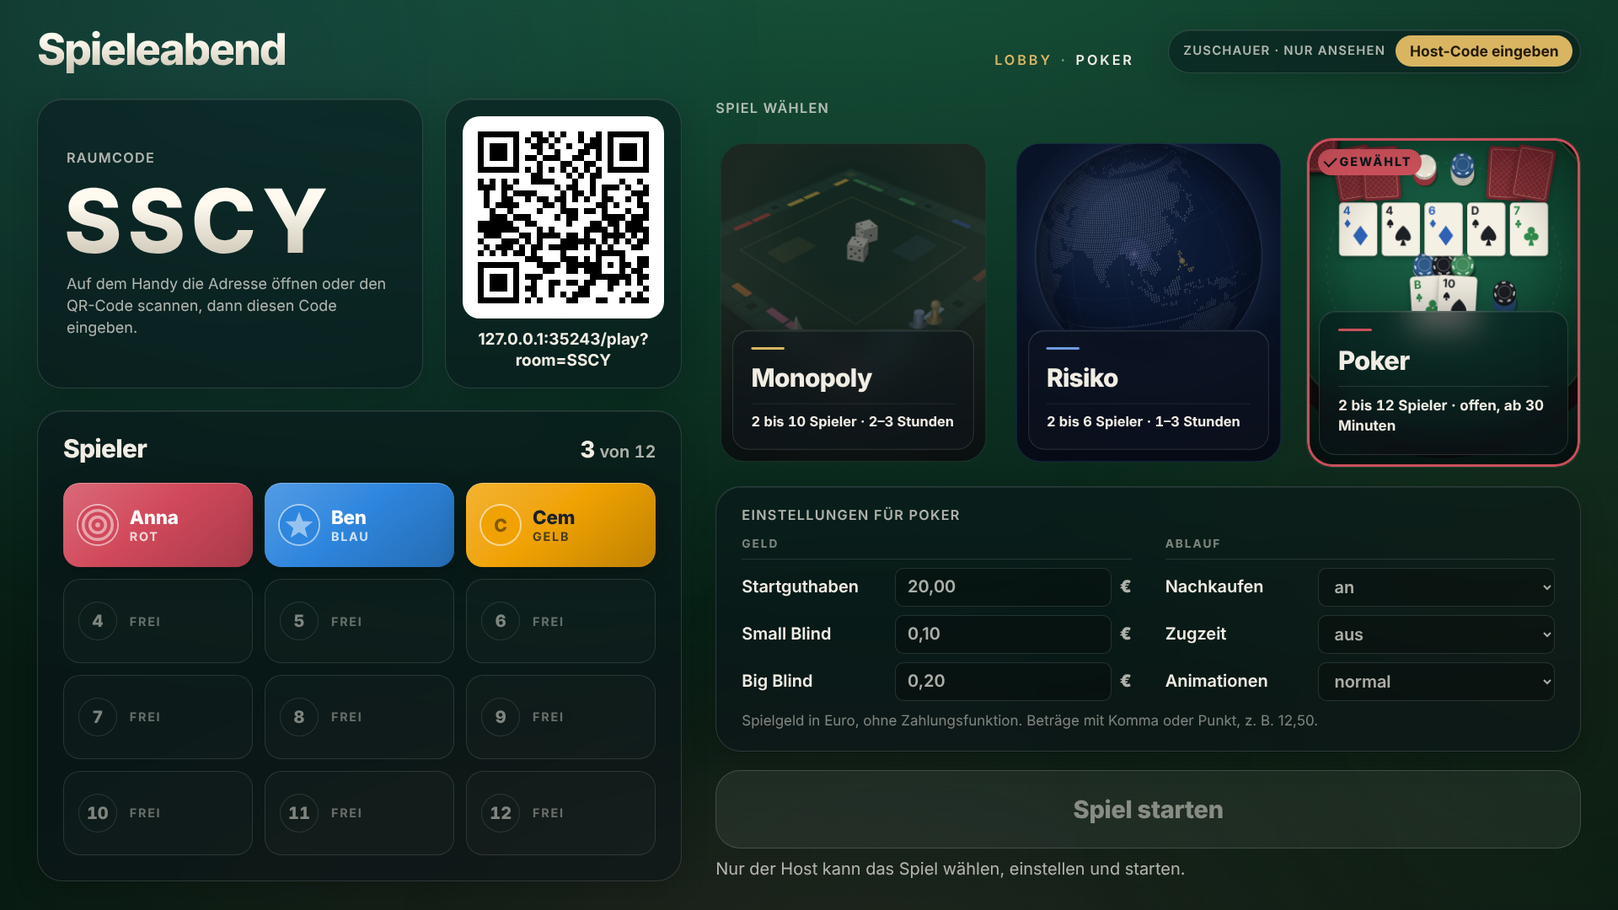
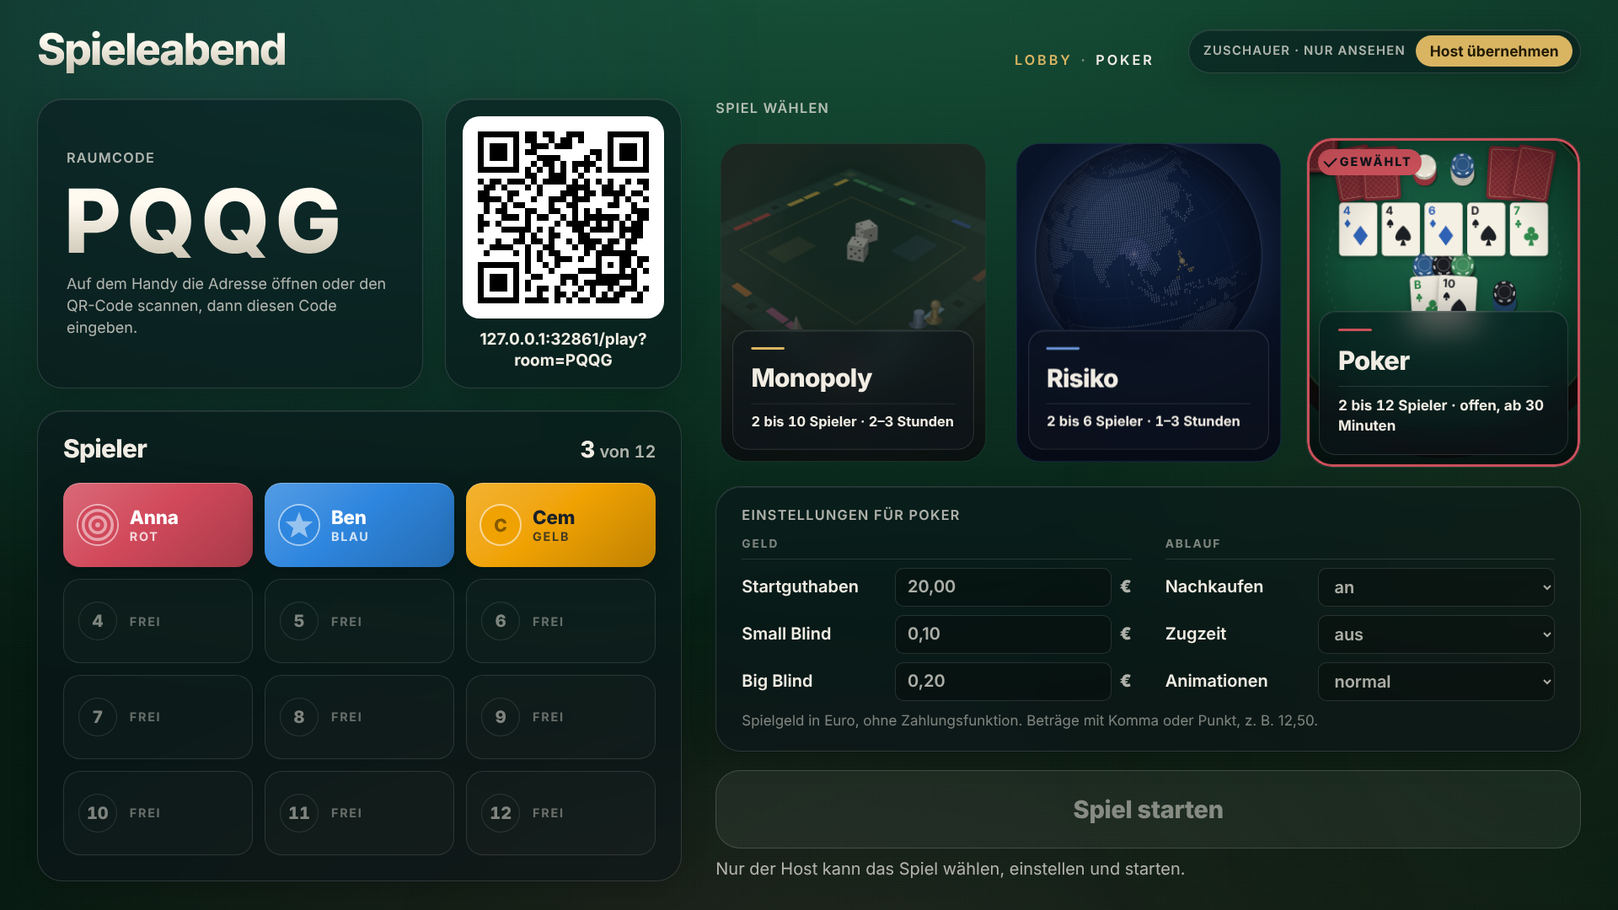
Doku und Bildschirmfotos: Host übernehmen
Claude-Session: https://claude.ai/code/session_01TwzLMyFqqp1k3P6XzyQuCh

diff --git a/docs/spielcenter-plan.md b/docs/spielcenter-plan.md
@@ -57,15 +57,15 @@ Ziel: Aus dem Monopoly-Abend wird ein Spielcenter mit mehreren Spielen.
   - Risiko: bestehendes Abschlussbild mit Statistik, dazu Gebiete und Armeen; bei vorzeitigem Ende „Spiel vom Host beendet“ ohne Sieger.
   - Monopoly: Vermögen als Rangliste: Bargeld plus Kaufpreis der Grundstücke (mit Hypothek abzüglich Hypothekenwert) plus Baukosten der Häuser (Hotel = 5 Häuser). Ein laufendes Minispiel bricht ab, offene Einsätze gehen zurück.
   - Danach: Handys zeigen „Das Spiel wurde beendet“ mit Endstand; der Host hat „Zurück zur Lobby“ (gleicher Raum, gleiche Spieler, neues Spiel wählbar) und „Raum schließen“ (mit Bestätigung; der Raum wird gelöscht, auch aus der Datenbank, alle Geräte bekommen Bescheid).
-- **Host-Token und Host-Code** (Branch `feature/host-token`): Nur der Host eines Raums darf Host-Aktionen auslösen. Bisher galt jedes Gerät mit geöffneter Host-Ansicht als Host.
-  - Token: Beim Anlegen eines Raums (`POST /api/rooms` von der Startseite, `board:create` aus der Host-Ansicht) erzeugt der Server ein Host-Token (`crypto.randomBytes(24)`, Base64url) und einen sechsstelligen Host-Code. Beide liegen im Raumzustand und damit in Postgres. Das Token geht nur in der Antwort an das anlegende Gerät; es steht nie in Snapshots, Logs, Fehlermeldungen, der QR-Adresse oder der Raumabfrage (`GET /api/rooms/:code`). Vergleich zeitkonstant über SHA-256 und `crypto.timingSafeEqual`.
+- **Host-Token** (Branch `feature/host-token`): Nur der Host eines Raums darf Host-Aktionen auslösen. Bisher galt jedes Gerät mit geöffneter Host-Ansicht als Host.
+  - Token: Beim Anlegen eines Raums (`POST /api/rooms` von der Startseite, `board:create` aus der Host-Ansicht) erzeugt der Server ein Host-Token (`crypto.randomBytes(24)`, Base64url). Es liegt im Raumzustand und damit in Postgres und geht nur in der Antwort an das anlegende (bzw. übernehmende) Gerät; es steht nie in Snapshots, Logs, Fehlermeldungen, der QR-Adresse oder der Raumabfrage (`GET /api/rooms/:code`). Vergleich zeitkonstant über SHA-256 und `crypto.timingSafeEqual`.
   - Client: Die Host-Ansicht speichert das Token in `localStorage` unter `spieleabend-host:<RAUMCODE>` und schickt es bei jeder Host-Aktion mit. Die Startseite legt es dort ab, bevor sie zu `/board?room=CODE` weiterleitet (gleiche Origin, das Token steht nie in der Adresse, also auch kein Referrer-Leck; zusätzlich `<meta name="referrer" content="no-referrer">` auf der Host-Ansicht). Die Weckseite (`wake/`) leitet für ein neues Spiel nach `/board` ohne Raum weiter; dort legt `board:create` den Raum an und das Token kommt direkt in der Antwort an. `wake/` ist deshalb unverändert.
-  - Geschützte Aktionen (Server, `hostRoom()` in `server/rooms.js`): `board:settings` (Einstellungen), `board:game` (Spielwechsel), `board:start` (Spiel starten), `board:end` (Spiel beenden), `board:lobby` (Zurück zur Lobby), `board:close` (Raum schließen), `board:foto` (Foto ausblenden und zeigen), im Testmodus `debug:dice` (Würfel vorgeben). Ohne gültiges Token: deutsche Ablehnung („Nur der Host kann … Dieses Gerät sieht nur zu – mit dem Host-Code lässt sich die Host-Rolle übernehmen.“), keine Zustandsänderung. Handys werden wie bisher schon an der Rolle abgelehnt, auch mit einem Token im richtigen Format.
-  - Zuschauer: Wer `/board?room=CODE` ohne gültiges Token öffnet, sieht Lobby bzw. Spiel, aber ohne Host-Knöpfe: Spielkarten, Einstellungen und „Spiel starten“ sind deaktiviert, „Foto ausblenden“, „Spiel beenden“, „Zurück zur Lobby“ und „Raum schließen“ fehlen. Im Kopf der Lobby steht „Zuschauer · nur ansehen“ mit „Host-Code eingeben“, im Spielkopf „Host-Code eingeben“.
-  - Host-Code als Notausgang: Die Lobby zeigt dem Host oben rechts „Host-Code 123 456“, im Spiel öffnet „Host-Code“ neben „Spiel beenden“ das Host-Menü mit dem Code. Auf einem neuen Gerät gibt man ihn in der Zuschauer-Ansicht ein (`host:claim`); der Server gibt ein neues Token **und einen neuen Host-Code** aus, das alte Token wird ungültig und das alte Gerät wird sofort Zuschauer (`host:revoked`, Hinweis). Höchstens 5 Fehlversuche pro Minute und IP und 10 pro Raum und Stunde, danach Sperre mit Meldung (die Zähler liegen nur im Arbeitsspeicher). Der Code wird nie an Handys gesendet.
+  - Geschützte Aktionen (Server, `hostRoom()` in `server/rooms.js`): `board:settings` (Einstellungen), `board:game` (Spielwechsel), `board:start` (Spiel starten), `board:end` (Spiel beenden), `board:lobby` (Zurück zur Lobby), `board:close` (Raum schließen), `board:foto` (Foto ausblenden und zeigen), im Testmodus `debug:dice` (Würfel vorgeben). Ohne gültiges Token: deutsche Ablehnung („Nur der Host kann … Dieses Gerät sieht nur zu.“), keine Zustandsänderung. Handys werden wie bisher schon an der Rolle abgelehnt, auch mit einem Token im richtigen Format.
+  - Zuschauer: Wer `/board?room=CODE` ohne gültiges Token öffnet, sieht Lobby bzw. Spiel, aber ohne Host-Knöpfe: Spielkarten, Einstellungen und „Spiel starten“ sind deaktiviert, „Foto ausblenden“, „Spiel beenden“, „Zurück zur Lobby“ und „Raum schließen“ fehlen. Im Kopf der Lobby steht „Zuschauer · nur ansehen“ mit „Host übernehmen“, im Spielkopf „Host übernehmen“. Der Host sieht in der Lobby „Dieses Gerät ist Host“.
+  - Host übernehmen (`host:takeover`): Nur eine Host-Ansicht in der Zuschauer-Rolle darf es versuchen (Handys und der Host selbst werden abgelehnt). Der Server erlaubt die Übernahme nur, wenn kein Host-Gerät mit gültigem Token per Socket verbunden ist; nach einem Verbindungsabbruch gilt der Host noch 15 Sekunden als verbunden, damit ein kurzes Neuladen ihn nicht verdrängt (die Toleranz gilt auch nach dem Anlegen und nach einem Neustart des Servers). Ist ein Host verbunden: „Der Host ist verbunden.“ Sonst gibt der Server ein neues Token aus, das alte wird ungültig; ein noch offenes altes Gerät wird sofort Zuschauer (`host:revoked`), beim Neuladen mit dem alten Token heißt es „Ein anderes Gerät ist jetzt Host“. Höchstens 5 Versuche pro Minute und IP (jeder Versuch zählt; Zähler nur im Arbeitsspeicher). Der frühere sechsstellige Host-Code ist entfallen.
   - Verbindungsverlust und Neustart: Die Host-Ansicht meldet sich mit dem gespeicherten Token neu an (`board:watch`); Token und Code überstehen einen Neustart des Servers.
-  - **Übergangsregel für alte gespeicherte Räume ohne Token:** Beim Laden bekommt ein solcher Raum ein neues Token und einen neuen Host-Code und ist „übernehmbar“ (`hostClaimable`, wird mitgespeichert). Die erste Host-Ansicht, die ihn danach öffnet, wird Host und bekommt das Token in der Antwort; jede weitere Ansicht ist Zuschauer. So stehen laufende Spiele nach dem Deploy nicht ohne Host da. Wer zuerst kommt, gewinnt – das ist für die Zeit direkt nach dem Deploy hingenommen.
-  - Bildschirmfotos: `host-lobby-host-code-1920x1080`, `zuschauer-lobby-1920x1080`, `host-code-eingabe-1920x1080` in `docs/screenshots/`. Die älteren Lobby-Fotos (`lobby-*`) zeigen den Host-Code oben rechts noch nicht.
+  - **Übergangsregel für alte gespeicherte Räume ohne Token:** Beim Laden bekommt ein solcher Raum ein neues Token und ist „übernehmbar“ (`hostClaimable`, wird mitgespeichert). Die erste Host-Ansicht, die ihn danach öffnet, wird Host und bekommt das Token in der Antwort; jede weitere Ansicht ist Zuschauer. So stehen laufende Spiele nach dem Deploy nicht ohne Host da. Wer zuerst kommt, gewinnt – das ist für die Zeit direkt nach dem Deploy hingenommen.
+  - Bildschirmfotos: `host-lobby-1920x1080`, `zuschauer-lobby-1920x1080`, `host-uebernehmen-abgelehnt-1920x1080` in `docs/screenshots/`. Die älteren Lobby-Fotos (`lobby-*`) zeigen den Hinweis „Dieses Gerät ist Host“ oben rechts noch nicht.
 - **Startseite** (`/`, `public/start/`, Branch `feature/startseite`): „Neues Spiel starten“ legt über `POST /api/rooms` einen Raum an, legt das Host-Token in `localStorage` ab und öffnet die Host-Lobby; „Spiel beitreten“ prüft den Code (`GET /api/rooms/:code`) und führt zu `/play`. Keine Anmeldung. Dauert eine Anfrage länger als 3 s, erscheint „Der Server startet, das dauert bis zu einer Minute.“
   - Eigenständig gestaltet (keine Stile aus `public/shared/`): Kopf mit Wortmarke „Spieleabend“ und den zwei Hauptaktionen, daneben „Spiel beitreten“ als Glas-Karte mit Raumcode in vier Feldern (automatisch weiter, Einfügen, Rücktaste springt zurück, Großbuchstaben, Fehler direkt am Feld), darunter drei Spielflächen und „So geht’s“ in drei Schritten. Am Desktop eine Seite mit klaren Abschnitten, die scrollt; Kopf und Spielflächen-Anfang passen in den ersten Bildschirm.
   - Animierte Hintergründe nur mit Canvas (`public/shared/hintergrund.js`, gemeinsam mit der Host-Lobby): Risiko als drehende Weltkugel aus Landpunkten (orthografisch, Regionen leuchten in Spielerfarben), Monopoly als Spielfeld in Perspektive mit laufenden Marken und rollenden Würfeln, Poker als Tisch von oben mit Karten und Chips. Die Punktdatei `public/start/globe-points.json` erzeugt `npm run build:globe` (`scripts/build-globe.js`) aus Natural Earth; sie ist deterministisch und unter 150 KB.
@@ -105,7 +105,7 @@ Ziel: Aus dem Monopoly-Abend wird ein Spielcenter mit mehreren Spielen.
   - Vanilla-JS-Clients ohne Build-Schritt
   - Zustand im Arbeitsspeicher; mit `DATABASE_URL` zusätzlich in Postgres (Neon), siehe Betrieb
 - **Deployment:** `render.yaml` als Web Service im Free-Plan; Build mit `npm install --omit=dev`, Start mit `npm start`, Healthcheck `/healthz`.
-- **Tests:** `npm test` führt nur die Unit-Tests aus (197: Host-Token und Host-Code (`test/host-token.test.js`: jede Host-Aktion mit gültigem, falschem, fehlendem und ersetztem Token, Zuschauer, Host-Code richtig/falsch/Sperre pro IP und pro Raum, Handys, Neustart mit Ersatz-Speicher, alter Raum ohne Token, Token nie in Snapshots, Logs, an Handys oder in Raumabfrage/QR-Adresse, auch kein Teilstring), Avatar-Set und Fotoprüfung (Format, Maße, Größe, Rate-Limit, Speichern und Löschen, alter Raum mit Emoji-Figur), Regeln von Monopoly, Risiko, Poker und Minispielen, Spiel-Schnittstelle, Spielauswahl, Neustart-Tests mit gespeicherten Räumen in Version 1 und 2, Prüfung der erzeugten Weltkarte, Animations-Ereignisse, Risiko-Anzeigedaten wie Vorauswahl, Phasentexte und Statistik samt altem Spielstand ohne Statistik, Animationsdauern, Raumlimit, Rate-Limit und Aufräumen leerer Räume, Startseite per HTTP, CORS-Freigabe von `/healthz` für die Weckseite, Wächter für die Testskripte, Punktdatei der Weltkugel). Poker hat 31 eigene Tests (`test/poker.test.js`, `test/poker-modul.test.js`): Handbewertung aller Kategorien mit Kickern und Gleichständen, Side-Pots mit drei und mehr Spielern und mehreren All-ins, Split mit ungeradem Cent, Mindest-Raise und zu kleines All-in, Heads-up, Blinds-Rotation, Aktionen außerhalb des Zuges, Einstellungen, Ablehnung des 13. Spielers, Austeilen mit 12 Spielern, versteckte Karten für jede Rolle auch nach Neustart aus dem Speicher, Zugzeit, Nachkaufen, Spielende und eine Zufallspartie mit festem Seed (über 100 Runden je mit 3, 6 und 12 Spielern), in der Guthaben plus Pot bis auf Nachkäufe konstant bleibt. Dazu `test/poker-layout.test.js` (Tischgeometrie ohne Browser: keine Überlappung mit Sperrzonen und untereinander für 2 bis 12 Spieler, Chip-Flugbahnen) und `test/spiel-beenden.test.js` (nur der Host beendet, Endphase, Neustart, Zurück zur Lobby, Raum schließen inklusive Löschen aus dem Speicher, Poker-Endstand mit Summe null, Monopoly-Vermögen, Risiko-Gebiete). Lokal kommen dazu `npm run test:browser` (Playwright-Durchläufe: Monopoly mit 1 Host-Ansicht und 3 Handys, Lobby, alte Einzelversion, Risiko mit 2 Handys inkl. Vorauswahl auf dem Fernseher, Poker mit 3 Handys (eine Runde, Karten nur am eigenen Handy, Gemeinschaftskarten auf dem Fernseher), Überlappungsprüfung des Poker-Tisches (`poker-layout.e2e`, `poker-layout-viele.e2e`, gemeinsamer Ablauf in `test/poker-layout-messung.js`), Spiel beenden mit Bestätigung, Endstand auf den Handys, Lobby und Raum schließen, Raster der Lobby (`lobby-layout.e2e`: 0 bis 12 Spieler, drei Auflösungen, Handy-Beitritt), Avatare und Fotos (`avatar.e2e`), Host-Token (`host-token.e2e`: Raum über die Startseite, Token nur in `localStorage`, zweites Fenster nur Zuschauer, Übernahme per Host-Code, altes Fenster wird Zuschauer), Startseite mit Raum anlegen und Beitritt per Code, Weckseite; braucht `CHROMIUM_PATH`; zuletzt 22 von 22 grün mit `/opt/pw-browsers/chromium`) und `npm run test:db` (2 Datenbank-Tests, braucht `DATABASE_URL`). Fehlt die Umgebung, werden diese Tests mit Grund übersprungen. Zeitlimit 60 s pro Testdatei.
+- **Tests:** `npm test` führt nur die Unit-Tests aus (198: Host-Token (`test/host-token.test.js`: jede Host-Aktion mit gültigem, falschem, fehlendem und ersetztem Token, Zuschauer, „Host übernehmen“ ohne und mit verbundenem Host, Toleranzfenster, altes Token danach ungültig, Rate-Limit, Handys, Neustart mit Ersatz-Speicher, alter Raum ohne Token, Token nie in Snapshots, Logs, an Handys oder in Raumabfrage/QR-Adresse, auch kein Teilstring), Avatar-Set und Fotoprüfung (Format, Maße, Größe, Rate-Limit, Speichern und Löschen, alter Raum mit Emoji-Figur), Regeln von Monopoly, Risiko, Poker und Minispielen, Spiel-Schnittstelle, Spielauswahl, Neustart-Tests mit gespeicherten Räumen in Version 1 und 2, Prüfung der erzeugten Weltkarte, Animations-Ereignisse, Risiko-Anzeigedaten wie Vorauswahl, Phasentexte und Statistik samt altem Spielstand ohne Statistik, Animationsdauern, Raumlimit, Rate-Limit und Aufräumen leerer Räume, Startseite per HTTP, CORS-Freigabe von `/healthz` für die Weckseite, Wächter für die Testskripte, Punktdatei der Weltkugel). Poker hat 31 eigene Tests (`test/poker.test.js`, `test/poker-modul.test.js`): Handbewertung aller Kategorien mit Kickern und Gleichständen, Side-Pots mit drei und mehr Spielern und mehreren All-ins, Split mit ungeradem Cent, Mindest-Raise und zu kleines All-in, Heads-up, Blinds-Rotation, Aktionen außerhalb des Zuges, Einstellungen, Ablehnung des 13. Spielers, Austeilen mit 12 Spielern, versteckte Karten für jede Rolle auch nach Neustart aus dem Speicher, Zugzeit, Nachkaufen, Spielende und eine Zufallspartie mit festem Seed (über 100 Runden je mit 3, 6 und 12 Spielern), in der Guthaben plus Pot bis auf Nachkäufe konstant bleibt. Dazu `test/poker-layout.test.js` (Tischgeometrie ohne Browser: keine Überlappung mit Sperrzonen und untereinander für 2 bis 12 Spieler, Chip-Flugbahnen) und `test/spiel-beenden.test.js` (nur der Host beendet, Endphase, Neustart, Zurück zur Lobby, Raum schließen inklusive Löschen aus dem Speicher, Poker-Endstand mit Summe null, Monopoly-Vermögen, Risiko-Gebiete). Lokal kommen dazu `npm run test:browser` (Playwright-Durchläufe: Monopoly mit 1 Host-Ansicht und 3 Handys, Lobby, alte Einzelversion, Risiko mit 2 Handys inkl. Vorauswahl auf dem Fernseher, Poker mit 3 Handys (eine Runde, Karten nur am eigenen Handy, Gemeinschaftskarten auf dem Fernseher), Überlappungsprüfung des Poker-Tisches (`poker-layout.e2e`, `poker-layout-viele.e2e`, gemeinsamer Ablauf in `test/poker-layout-messung.js`), Spiel beenden mit Bestätigung, Endstand auf den Handys, Lobby und Raum schließen, Raster der Lobby (`lobby-layout.e2e`: 0 bis 12 Spieler, drei Auflösungen, Handy-Beitritt), Avatare und Fotos (`avatar.e2e`), Host-Token (`host-token.e2e`: Raum über die Startseite, Token nur in `localStorage`, zweites Fenster nur Zuschauer, „Host übernehmen“ abgelehnt bei verbundenem Host und beim Neuladen, nach der Toleranz übernommen, altes Fenster wird Zuschauer), Startseite mit Raum anlegen und Beitritt per Code, Weckseite; braucht `CHROMIUM_PATH`; zuletzt 22 von 22 grün mit `/opt/pw-browsers/chromium`) und `npm run test:db` (2 Datenbank-Tests, braucht `DATABASE_URL`). Fehlt die Umgebung, werden diese Tests mit Grund übersprungen. Zeitlimit 60 s pro Testdatei.
 - **Aufräumarbeiten:** `package-lock.json` liegt im Repo. Die alte Pferderennen-Einzelversion liegt in `legacy/`.
 
 ## Entscheidungen
@@ -119,10 +119,10 @@ Ziel: Aus dem Monopoly-Abend wird ein Spielcenter mit mehreren Spielen.
 7. **Poker: Texas Hold'em als Cash-Game**, 2 bis 12 Spieler, Geld in ganzen Cent, Einstellungen und Regeln wie oben unter Poker. Keine Turniere, keine anderen Varianten.
 8. **Poker: Showdown.** Wer gewinnen kann, zeigt automatisch; wer nicht gewinnen kann, darf verdeckt wegwerfen. Bei einem All-in werden alle Hände gezeigt. Die Dead-Button-Regel gibt es nicht: Der Button rückt immer zum nächsten Spieler mit Guthaben.
 9. **Räume bis 12 Spieler.** Monopoly bleibt bei 10, Risiko bei 6.
-10. **Spiel beenden darf nur der Host.** Host ist das Gerät, das den Raum angelegt hat (Host-Token, ohne Anmeldung); auf einem anderen Gerät übernimmt man die Rolle mit dem sechsstelligen Host-Code. Ein vorzeitig beendetes Spiel hat keinen Sieger; laufende Poker-Runden und Minispiele werden abgebrochen, Einsätze gehen zurück.
+10. **Spiel beenden darf nur der Host.** Host ist das Gerät, das den Raum angelegt hat (Host-Token, ohne Anmeldung); ein anderes Gerät kann die Rolle mit „Host übernehmen“ bekommen, wenn kein Host verbunden ist.
 11. **Avatare statt Emoji-Figuren.** Eigenes geometrisches Set mit 24 Motiven plus Monogramm, getrennt von der Farbe wählbar; das alte Feld `figure` bleibt nur zum Lesen alter Spielstände.
 12. **Eigene Fotos nur klein und nur im Raum.** 128 × 128, höchstens 20 KB am Handy bzw. 24 KB am Server, nur WebP oder JPEG; gelöscht mit dem Raum; der Host kann jedes Foto ausblenden.
-13. **Host-Token statt „wer die Host-Ansicht öffnet“.** Alle Host-Aktionen brauchen das Token aus `localStorage`; ohne Token ist die Host-Ansicht eine Zuschauer-Ansicht. Die Übernahme per Host-Code erneuert Token und Code. Alte Räume ohne Token übernimmt einmalig die erste Host-Ansicht nach dem Deploy.
+13. **Host-Token statt „wer die Host-Ansicht öffnet“.** Alle Host-Aktionen brauchen das Token aus `localStorage`; ohne Token ist die Host-Ansicht eine Zuschauer-Ansicht. „Host übernehmen“ geht nur, wenn kein Host verbunden ist (15 s Toleranz), und erneuert das Token. Ein Host-Code wurde ausprobiert und wieder entfernt. Alte Räume ohne Token übernimmt einmalig die erste Host-Ansicht nach dem Deploy.
 
 ## Offene Punkte
 
@@ -143,7 +143,7 @@ Ziel: Aus dem Monopoly-Abend wird ein Spielcenter mit mehreren Spielen.
   - Offen: Ein unterbrochenes Minispiel startet nach einem Neustart neu.
 - Weckseite (`wake/`) für den Link an Freunde, siehe unten.
 - Nur eine Server-Instanz möglich, weil Socket.IO keinen gemeinsamen Adapter (z. B. Redis) nutzt.
-- Keine Anmeldung: Wer den Raumcode kennt, kann die Host-Ansicht als Zuschauer öffnen, aber nichts steuern (Host-Token, siehe oben). Getrennte Plätze von Spielern lassen sich weiterhin übernehmen. Wer den Host-Code sieht (er steht in der Lobby auf dem Fernseher), kann die Host-Rolle übernehmen; im privaten Modus mancher Browser ohne `localStorage` überlebt die Host-Rolle kein Neuladen, dann hilft der Host-Code. Jeder mit dem Link kann über die Startseite Räume anlegen (begrenzt, siehe Räume). Die IP für das Rate-Limit kommt aus `X-Forwarded-For` (erster Eintrag); wer sie fälscht, umgeht nur die 5 pro Minute, nicht das Raumlimit.
+- Keine Anmeldung: Wer den Raumcode kennt, kann die Host-Ansicht als Zuschauer öffnen, aber nichts steuern (Host-Token, siehe oben). Getrennte Plätze von Spielern lassen sich weiterhin übernehmen. Ist das Host-Gerät länger als 15 Sekunden getrennt (Akku leer, Tab geschlossen), kann jedes Gerät mit dem Raumcode die Host-Rolle übernehmen; das ist der Preis für den Notausgang ohne Code. Im privaten Modus mancher Browser ohne `localStorage` überlebt die Host-Rolle kein Neuladen; dann hilft „Host übernehmen“ nach Ablauf der Toleranz. Jeder mit dem Link kann über die Startseite Räume anlegen (begrenzt, siehe Räume). Die IP für das Rate-Limit kommt aus `X-Forwarded-For` (erster Eintrag); wer sie fälscht, umgeht nur die 5 pro Minute, nicht das Raumlimit.
 
 ### Weckseite auf Netlify veröffentlichen
 Render legt den kostenlosen Dienst nach etwa 15 Minuten schlafen. Die statische Weckseite in `wake/` weckt ihn auf und leitet weiter, sobald `/healthz` mit `ok: true` antwortet. Sie ist der Link, den man an Freunde schickt.

diff --git a/CLAUDE.md b/CLAUDE.md
@@ -23,8 +23,8 @@ Spielcenter für den Spieleabend: Ein großer Bildschirm (Tablet oder TV) zeigt 
   - Poker-Clients: `public/board/poker.js` (Tisch, Animationen aus den Server-Ereignissen; `poker-audio.js` für Töne), `public/play/poker.js`; Spielkarten, Chipstapel, Sitzmarken und Euro-Anzeige gemeinsam in `public/shared/poker-karten.js` / `.css`
   - `public/board/poker-layout.js`: Tischgeometrie (reine Rechnung, auch in den Unit-Tests). Kartenring, Blinds-Feld, Pot-Feld und Handname sind Sperrzonen; Plätze, Einsätze, Dealer-Button und fliegende Chips dürfen sie nie berühren. Wer am Tisch etwas ändert, lässt `test:browser` laufen (Überlappungsprüfung `poker-layout*.e2e`).
   - Spiel beenden: Jedes Spielmodul bietet `endByHost()` und `summary()` (Endstand für `final` im Snapshot, nur Anzeige). `board:end`, `board:lobby` und `board:close` nimmt der Server nur von der Host-Ansicht an; Endstand-Darstellung gemeinsam in `public/shared/endstand.js` / `.css`.
-  - Host-Rechte: Beim Anlegen eines Raums (`POST /api/rooms`, `board:create`) erzeugt der Server ein Host-Token (`crypto.randomBytes(24)`, Base64url) und einen sechsstelligen Host-Code. Beide liegen im Raumzustand (also auch in Postgres) und gehen **nur** in der Antwort an das anlegende Gerät bzw. an den Host (`board:watch` mit gültigem Token, `host:claim`); nie in Snapshots, Logs, Fehlermeldungen, Adressen oder an Handys. Jede Host-Aktion (`board:settings`, `board:game`, `board:start`, `board:end`, `board:lobby`, `board:close`, `board:foto`, im Testmodus `debug:dice`) braucht `hostToken` im Payload; geprüft zeitkonstant (`crypto.timingSafeEqual`) in `hostRoom()` in `server/rooms.js`. Neue Host-Aktionen immer über `hostRoom()` und im Client über `hostEmit()` (`public/board/board.js`).
-  - Ohne gültiges Token ist die Host-Ansicht Zuschauer (`body.zuschauer`, keine Host-Knöpfe). Das Token liegt im Browser in `localStorage` unter `spieleabend-host:<RAUMCODE>`; die Startseite legt es dort ab, bevor sie zu `/board?room=…` weiterleitet. Übernahme auf einem neuen Gerät mit dem Host-Code (`host:claim`): neues Token und neuer Code, das alte Gerät bekommt `host:revoked`. Sperre nach 5 Fehlversuchen pro Minute und IP bzw. 10 pro Raum und Stunde.
+  - Host-Rechte: Beim Anlegen eines Raums (`POST /api/rooms`, `board:create`) erzeugt der Server ein Host-Token (`crypto.randomBytes(24)`, Base64url). Es liegt im Raumzustand (also auch in Postgres) und geht **nur** in der Antwort an das anlegende bzw. übernehmende Gerät (`board:create`, `POST /api/rooms`, `host:takeover`, Übergangsregel in `board:watch`); nie in Snapshots, Logs, Fehlermeldungen, Adressen oder an Handys. Jede Host-Aktion (`board:settings`, `board:game`, `board:start`, `board:end`, `board:lobby`, `board:close`, `board:foto`, im Testmodus `debug:dice`) braucht `hostToken` im Payload; geprüft zeitkonstant (`crypto.timingSafeEqual`) in `hostRoom()` in `server/rooms.js`. Neue Host-Aktionen immer über `hostRoom()` und im Client über `hostEmit()` (`public/board/board.js`).
+  - Ohne gültiges Token ist die Host-Ansicht Zuschauer (`body.zuschauer`, keine Host-Knöpfe, dafür „Host übernehmen“). Das Token liegt im Browser in `localStorage` unter `spieleabend-host:<RAUMCODE>`; die Startseite legt es dort ab, bevor sie zu `/board?room=…` weiterleitet. „Host übernehmen“ (`host:takeover`, nur Host-Ansichten in Zuschauer-Rolle) klappt nur, wenn kein Host-Gerät mit gültigem Token verbunden ist, mit 15 s Toleranz nach einem Verbindungsabbruch (`HOST_GRACE_MS`, auch nach einem Neustart); sonst „Der Host ist verbunden.“ Dann gibt es ein neues Token, das alte wird ungültig (`host:revoked`). Höchstens 5 Versuche pro Minute und IP.
   - Räume nehmen bis zu 12 Spieler auf (das Spielmodul begrenzt weiter: Monopoly 10, Risiko 6, Poker 12). Ein Modul kann eigene Lobby-Farben haben (`colors`); beim Spielwechsel werden die Farben übertragen.
   - Risiko-Anzeigedaten (Vorauswahl, Phasentexte, Animations-Ereignisse) entstehen im Spielmodul `server/games/risiko/index.js`; die Vorauswahl geht nur an die Host-Ansicht. Die Statistik fürs Abschlussbild zählt die Engine nur zur Anzeige mit.
   - `server/games/*.js`: Minispiele mit `wallet`-Interface
